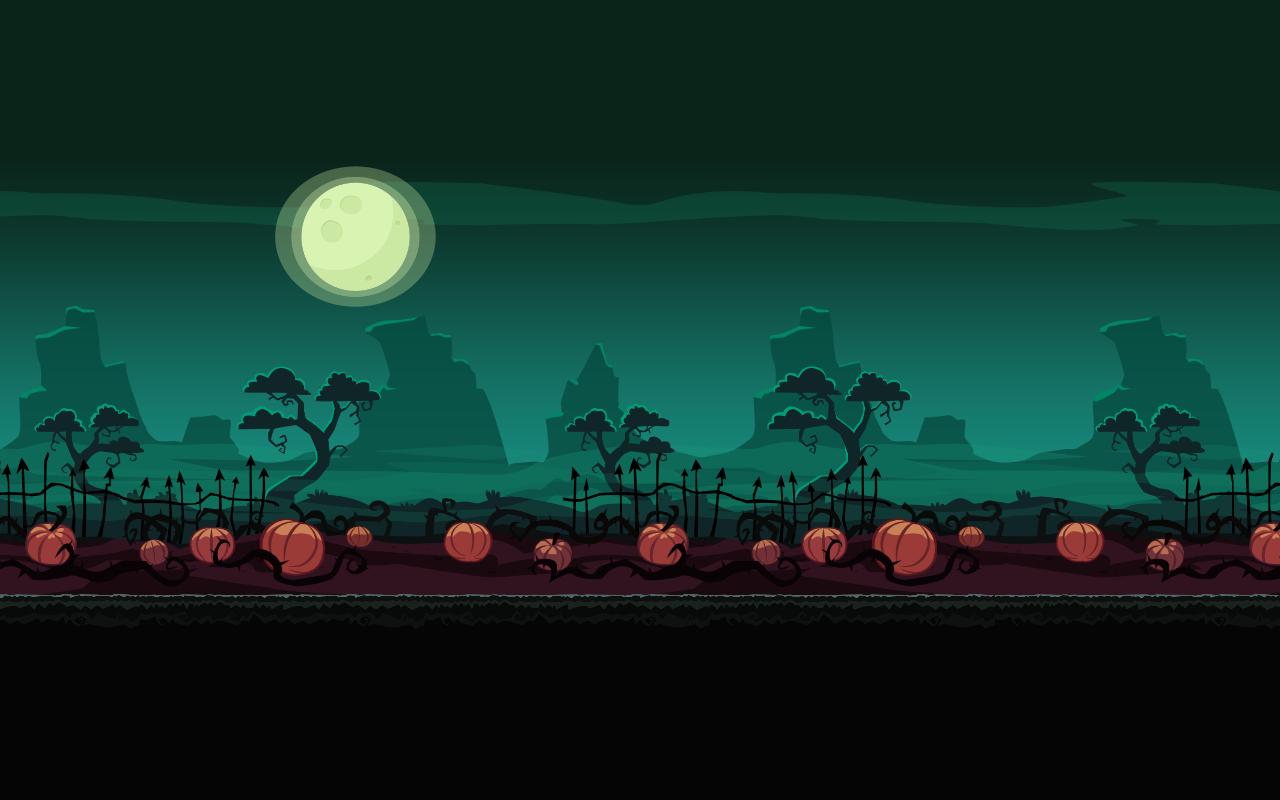
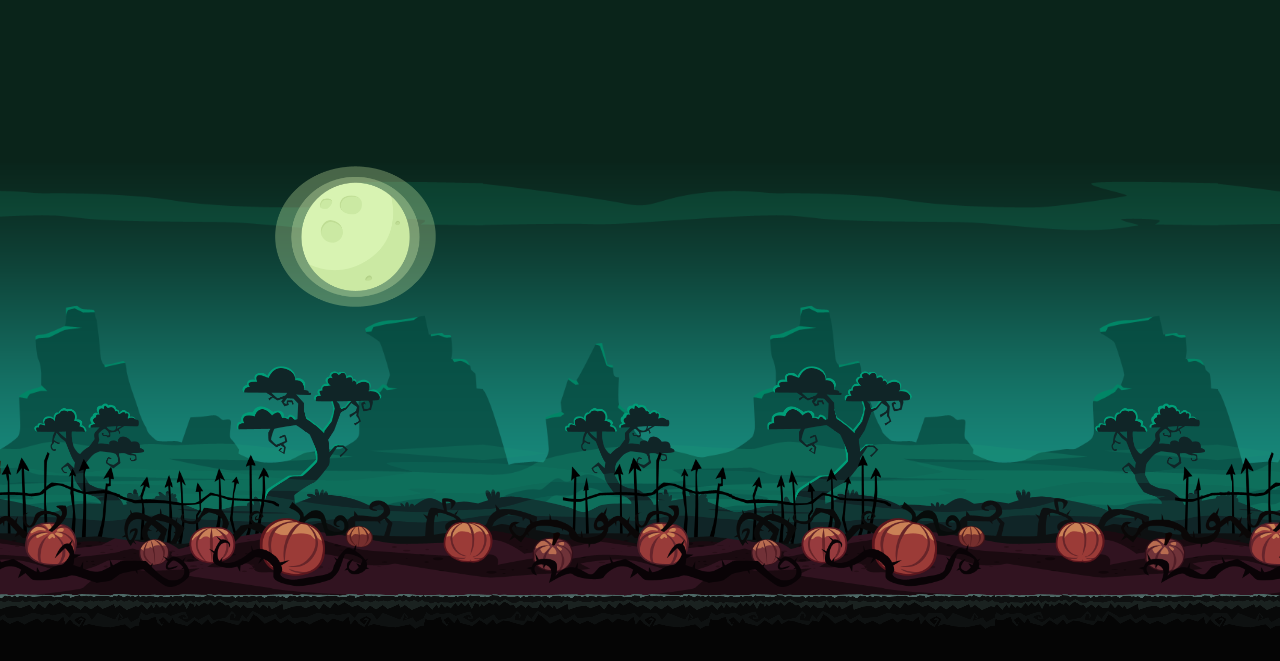
WIP

diff --git a/src/ScoreLayer.js b/src/ScoreLayer.js
@@ -1,9 +1,25 @@
 (function(){
     var ScoreLayer = cc.Layer.extend({
-        ctor: function(){
+        ctor: function(map){
             this._super();
+            map = new cc.TMXTiledMap(map);
+            var pp = abird.getTmxObject(map, "menu", "PlayPause");
+            
+            // Create the button
+            var button = new ccui.Button();
+            button.setTouchEnabled(true);
+            button.loadTextures(res.play, "", "");
+            button.x = pp.x;
+            button.y = pp.y;
+            //button.addTouchEventListener(this.touchEvent, this);
+//            button.addClickEventListener(function () {
+//                cc.director.pushScene(new HelloWorldScene());
+//            }); 
+            this.addChild(button);
+            
             return true;
-        }
+        },
+        map: null
     });
     
     abird.ScoreLayer = ScoreLayer;

diff --git a/src/AngryBird.js b/src/AngryBird.js
@@ -3,6 +3,15 @@ var abird;
     var AngryBirdNamespace = cc.Class.extend({
         run: function(){
             cc.director.runScene(new abird.MainGameScene());
+        },
+        getTmxObject: function (tmx, key, name){
+            var objs = tmx
+                .getObjectGroup(key)
+                .getObjects();
+            for(var i = 0; i < objs.length; i++){
+                if(objs[i].name === name)
+                    return objs[i];
+            }
         }
     });
     abird = new AngryBirdNamespace();

diff --git a/src/BackgroundLayer.js b/src/BackgroundLayer.js
@@ -5,8 +5,10 @@
             this._super();
             var i = new cc.Sprite(image);
             i.attr({
-                x: size.width/2,
-                y: size.height/2,
+                x: 0,
+                y: 0,
+                anchorX: 0,
+                anchorY: 0
             });
             this.addChild(i);
             return true;

diff --git a/src/MainGameScene.js b/src/MainGameScene.js
@@ -3,7 +3,7 @@
         ctor: function(){
             this._super();
             this.backgroundLayer = new abird.BackgroundLayer(res.background);
-            this.scoreLayer = new abird.ScoreLayer();
+            this.scoreLayer = new abird.ScoreLayer(res.map);
             return true;
         },
         onEnter: function() {

diff --git a/src/resource.js b/src/resource.js
@@ -4,7 +4,10 @@ var res = {
     Pigs_png: "res/sprite_INGAME.png",
     Pigs2_png: "res/sprite1.png",
     Transparency_png: "res/transparency.png", 
-    background: "res/world.png"
+    background: "res/world.png",
+    play: "res/play.png",
+    f: "res/buttons.png",
+    map: "res/halloMap.tmx"
 };
 
 var g_resources = [];
